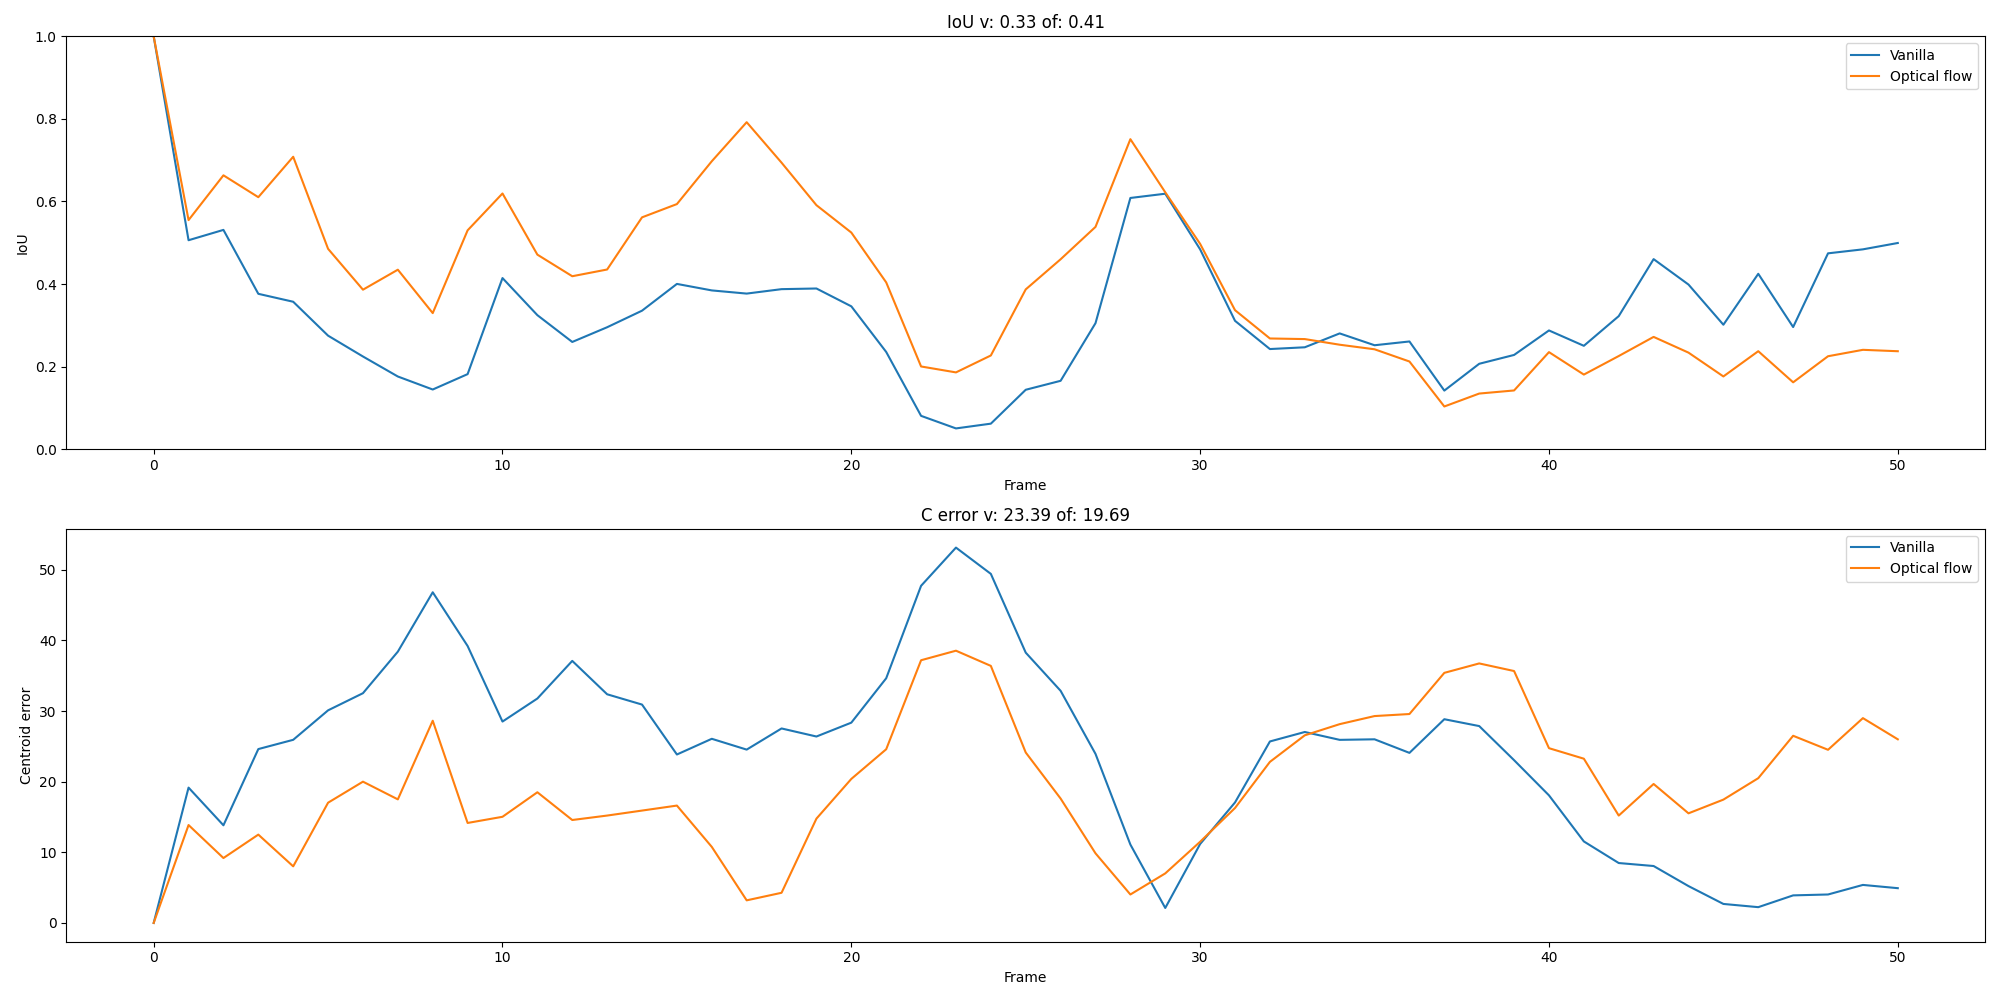
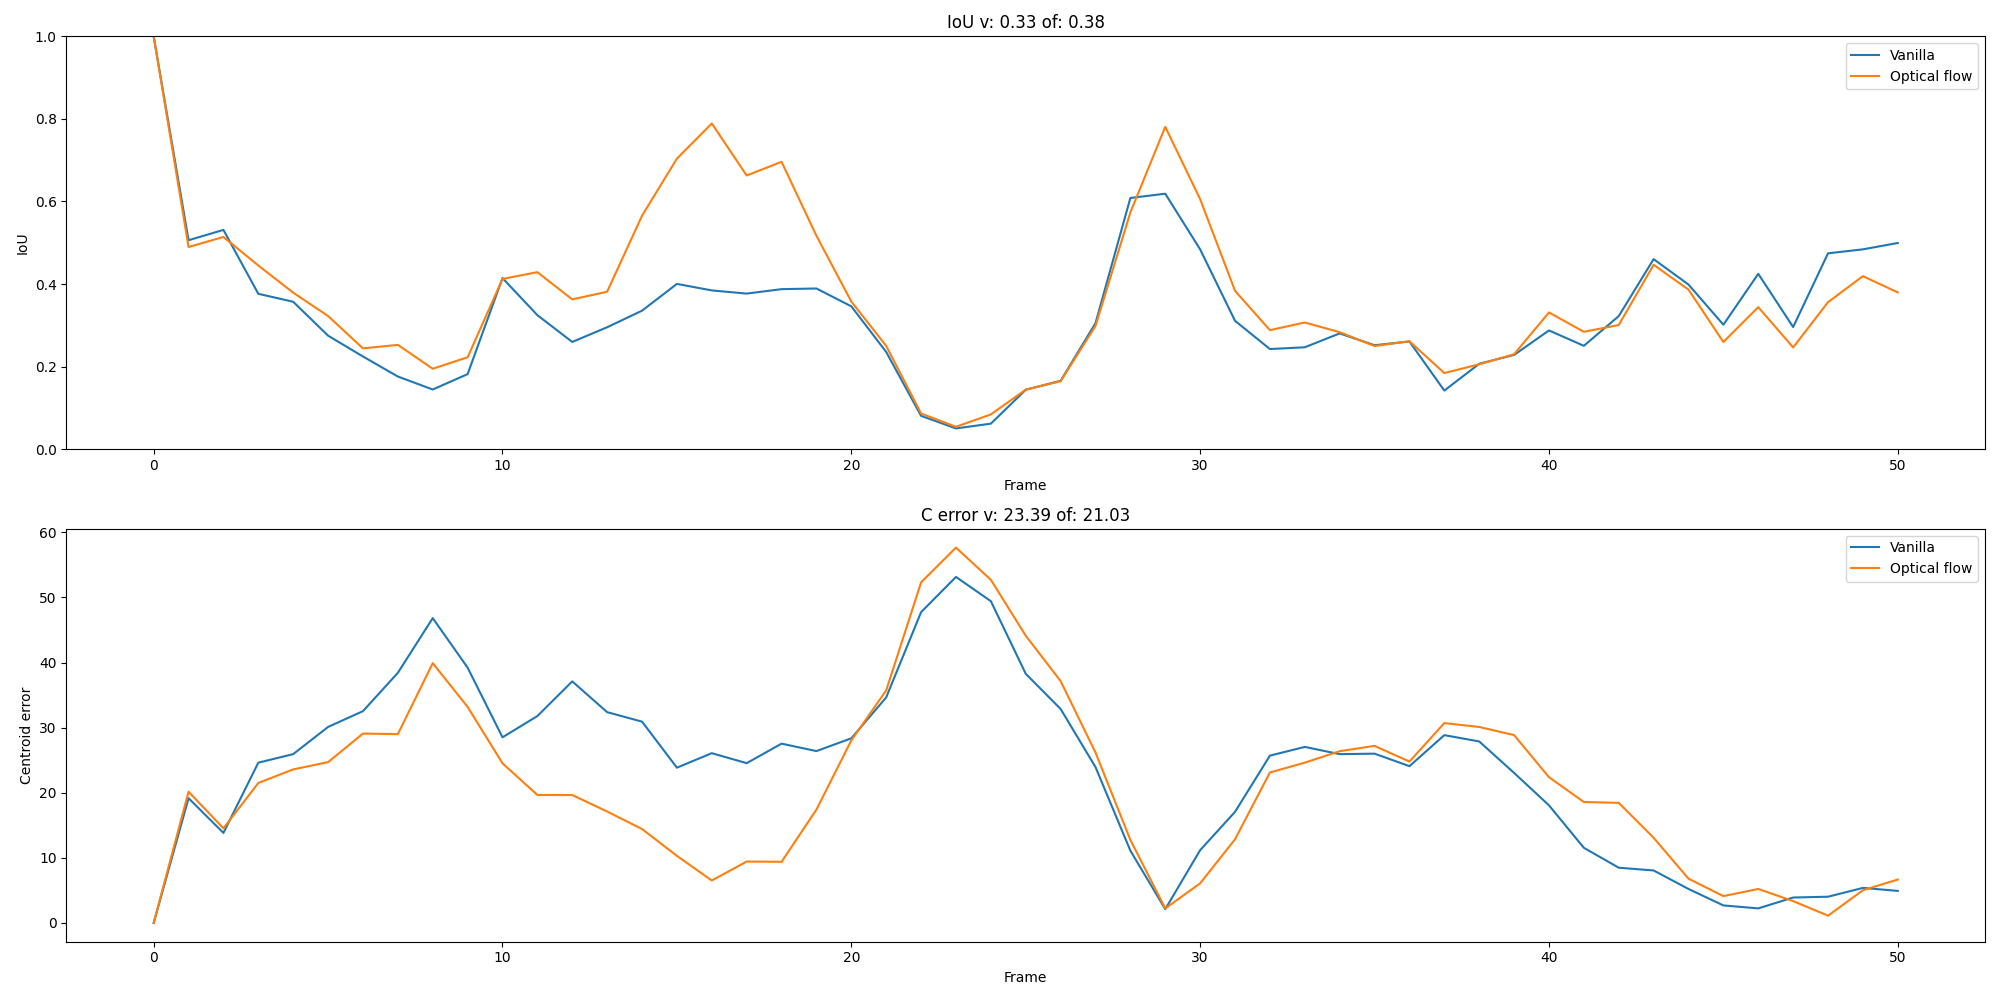
refine optical flow

diff --git a/eval_utils.py b/eval_utils.py
@@ -112,22 +112,20 @@ def centroid_error(box1, box2):
     return np.sqrt((c1[0] - c2[0])**2 + (c1[1] - c2[1])**2)
     
     
-def delta_by_optical_flow(img1, img2, mode="tvl1", target_size=(64,64)):
+def delta_by_optical_flow(img1, img2, mode="tvl1", target_size=(32,32)):
     """
     img1 and img2 are numpy arrays
     
     output is a tuple (u, v) where u and v are the displacements in the x and y directions
     """
-    img1 = rgb2gray(img1)
-    img2 = rgb2gray(img2)
     
-    h, w = img1.shape
+    h, w, c = img1.shape
     img1 = resize(img1, target_size)
     img2 = resize(img2, target_size)
     
     
     if mode == "tvl1":
-        flow = optical_flow_tvl1(img1, img2)
+        flow = optical_flow_tvl1(img1, img2, prefilter=True)
     elif mode == "ilk":
         flow = optical_flow_ilk(img1, img2, gaussian=True)
     else:

diff --git a/eval.py b/eval.py
@@ -38,7 +38,7 @@ def main(path="sequences-train",
     model.eval()
     
     tracker_vanilla = Tracker(model, optical_flow=None)
-    tracker_of = Tracker(model, optical_flow="ilk") # tvl1 or ilk
+    tracker_of = Tracker(model, optical_flow="tvl1") # tvl1 or ilk
     
     annotations = utils.load_sequences(path)
     
